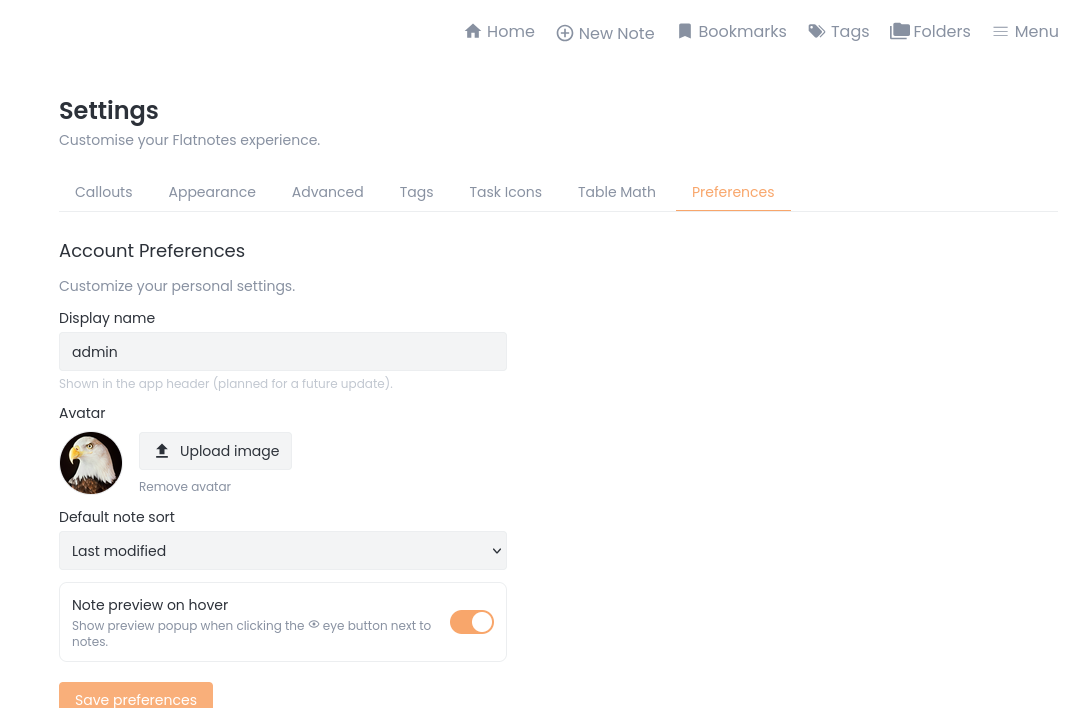
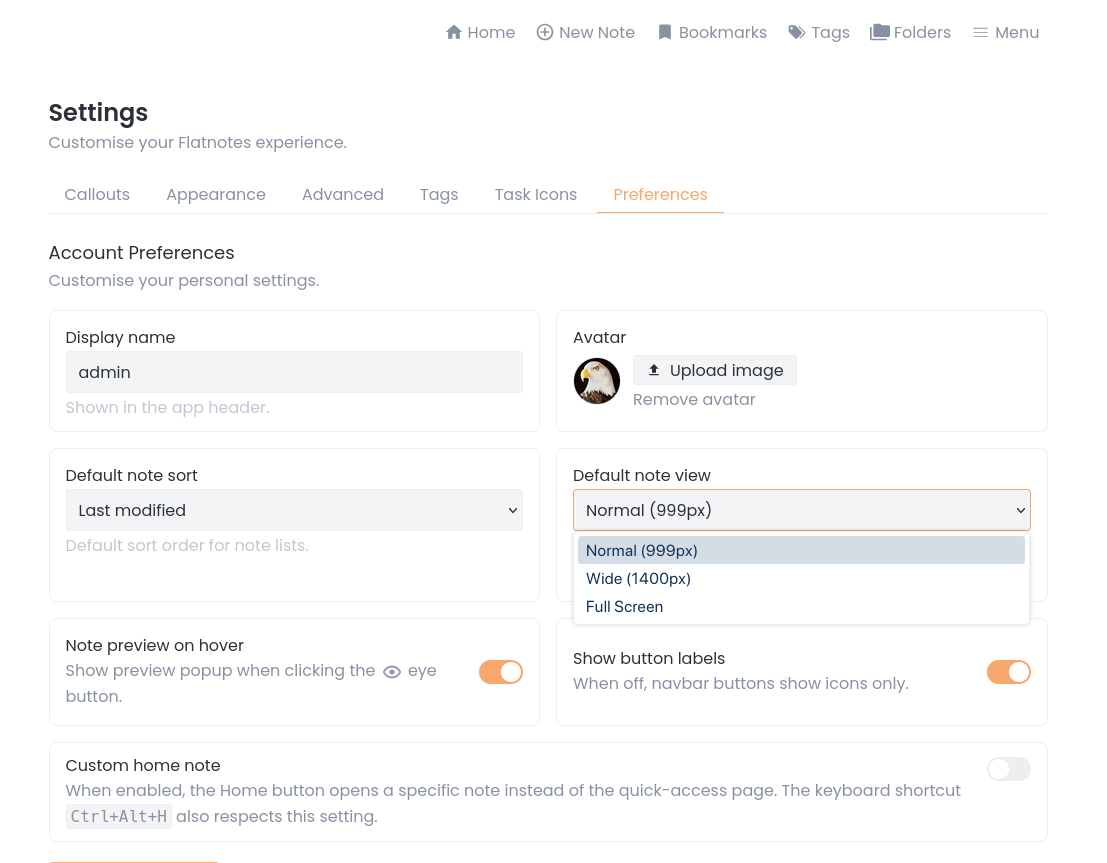
v1.6.0: Add Note Views: Normal (999px), Wide (1400px), Full Screen

diff --git a/client/views/Settings.vue b/client/views/Settings.vue
@@ -650,7 +650,7 @@
                   }"
                   placeholder="parent"
                   title="Parent tag name"
-                  class="w-24 text-sm bg-theme-background-elevated border border-theme-border
+                  class="w-28 text-sm bg-theme-background-elevated border border-theme-border
                          rounded px-2 py-1 outline-none focus:border-theme-brand text-theme-text"
                 />
                 <span class="text-theme-text-very-muted shrink-0 select-none text-sm">/</span>
@@ -663,7 +663,7 @@
                   }"
                   placeholder="child"
                   title="Child tag name (optional — leave empty for top-level tag)"
-                  class="w-24 text-sm bg-theme-background-elevated border border-theme-border
+                  class="w-28 text-sm bg-theme-background-elevated border border-theme-border
                          rounded px-2 py-1 outline-none focus:border-theme-brand text-theme-text"
                 />
               </div>
@@ -676,7 +676,7 @@
               />
               <input
                 v-model="row.color"
-                class="w-20 text-xs font-mono bg-theme-background-elevated border border-theme-border
+                class="w-24 text-xs font-mono bg-theme-background-elevated border border-theme-border
                        rounded px-2 py-1 outline-none focus:border-theme-brand text-theme-text uppercase"
               />
 
@@ -817,7 +817,7 @@
                 />
                 <input
                   v-model="row.color"
-                  class="w-20 text-xs font-mono bg-theme-background-elevated border border-theme-border
+                  class="w-24 text-xs font-mono bg-theme-background-elevated border border-theme-border
                          rounded px-1.5 py-1 outline-none focus:border-theme-brand text-theme-text uppercase"
                   @input="row.color = normalizeHex($event.target.value)"
                 />
@@ -970,18 +970,20 @@
           <p class="text-xs text-theme-text-very-muted mt-1.5">Default sort order for note lists.</p>
         </div>
 
-        <!-- Default view placeholder — grid/list view not yet implemented in frontend -->
-        <div class="p-4 rounded-lg border border-theme-border bg-theme-background opacity-50">
+        <!-- Default view -->
+        <div class="p-4 rounded-lg border border-theme-border bg-theme-background">
           <label class="block text-sm font-medium text-theme-text mb-1">Default note view</label>
           <select
-            disabled
+            v-model="prefs.notesDefaultView"
             class="w-full text-sm bg-theme-background-elevated border border-theme-border rounded px-3 py-2
-                   outline-none text-theme-text cursor-not-allowed"
+                   outline-none focus:border-theme-brand text-theme-text"
           >
-            <option>App default</option>
+            <option value="normal">Normal (999px)</option>
+            <option value="wide">Wide (1400px)</option>
+            <option value="fullscreen">Full Screen</option>
           </select>
           <p class="text-xs text-theme-text-very-muted mt-1.5">
-            Grid / list view toggle coming in a future update.
+            Wide gives more room on large desktops without stretching to full screen. Full Screen uses all available width.
           </p>
         </div>
       </div>
@@ -1464,12 +1466,17 @@ async function saveQuoteStyle() {
 }
 
 // ── Preferences ───────────────────────────────────────────────────────────────
-const prefs = ref({ displayName: "", avatarFilename: null, notesDefaultSort: "", notesDefaultView: "", showButtonLabels: true, homeNoteEnabled: false, homeNote: "" });
+const prefs = ref({ displayName: "", avatarFilename: null, notesDefaultSort: "", notesDefaultView: "normal", showButtonLabels: true, homeNoteEnabled: false, homeNote: "" });
 const prefsSaving = ref(false);
 
 // Keep globalStore in sync so buttons react instantly (no save needed for live preview)
 watch(() => prefs.value.showButtonLabels, (val) => {
   globalStore.showButtonLabels = val;
+}, { immediate: true });
+
+// Sync note view mode to globalStore so layout updates live on change
+watch(() => prefs.value.notesDefaultView, (val) => {
+  globalStore.noteViewMode = (val === 'fullscreen' || val === 'wide') ? val : 'normal';
 }, { immediate: true });
 
 // Sync home note settings to globalStore so NavBar reacts without requiring save
@@ -1517,7 +1524,7 @@ async function savePrefs() {
       display_name:        toNull(p.displayName),
       avatar_filename:     toNull(p.avatarFilename),
       notes_default_sort:  toNull(p.notesDefaultSort),
-      notes_default_view:  toNull(p.notesDefaultView),
+      notes_default_view:  (p.notesDefaultView === 'fullscreen' || p.notesDefaultView === 'wide') ? p.notesDefaultView : 'normal',
       show_button_labels:  p.showButtonLabels,
       home_note_enabled:   p.homeNoteEnabled,
       home_note:           p.homeNote ? p.homeNote.trim() : null,
@@ -1803,7 +1810,7 @@ onMounted(async () => {
       displayName:       p.display_name ?? "",
       avatarFilename:    p.avatar_filename ?? null,
       notesDefaultSort:  p.notes_default_sort ?? "",
-      notesDefaultView:  p.notes_default_view ?? "",
+      notesDefaultView:  (p.notes_default_view === 'fullscreen' || p.notes_default_view === 'wide') ? p.notes_default_view : 'normal',
       showButtonLabels:  p.show_button_labels !== false,
       homeNoteEnabled:   p.home_note_enabled === true,
       homeNote:          p.home_note || "",

diff --git a/client/App.vue b/client/App.vue
@@ -1,49 +1,83 @@
 <template>
+  <!--
+    Outer shell is always full-width so the sidebar's fixed 288px offset
+    eats into the outer padding/margin space, NOT into the note content.
+    Inner centering is applied per-route via the contentClass computed.
+  -->
   <LoadingIndicator
     ref="loadingIndicator"
-    class="container mx-auto flex h-screen flex-col px-2 py-4 print:max-w-full"
+    class="flex h-screen flex-col py-4 print:max-w-full w-full px-2 md:px-4"
   >
     <PrimeToast />
     <SearchModal v-model="isSearchModalVisible" />
 
-    <!-- Tag Sidebar -->
+    <!-- Tag Sidebar (fixed-position, overlays content) -->
     <TagSidebar
       :isOpen="isSidebarOpen"
       @close="isSidebarOpen = false"
       @tagsChanged="handleTagsChanged"
     />
 
-    <!-- Folder Sidebar -->
+    <!-- Folder Sidebar (fixed-position, overlays content) -->
     <FolderSidebar
       :isOpen="isFolderSidebarOpen"
       @close="isFolderSidebarOpen = false"
     />
 
-    <!-- Main content area with fixed header and scrollable content -->
+    <!-- Main content area — shifts right when sidebar opens. The outer shell is
+         full-width so the 288px shift is absorbed by space outside the inner
+         centering wrapper rather than shrinking the note content. -->
     <div
       :class="[
         'flex flex-col flex-1 min-h-0 transition-all duration-300',
         (isSidebarOpen || isFolderSidebarOpen) ? 'md:ml-72' : 'md:ml-0',
       ]"
     >
-      <!-- Fixed NavBar - does not scroll -->
-      <div class="shrink-0">
-        <NavBar
-          v-if="showNavBar"
-          ref="navBar"
-          :class="{ 'print:hidden': route.name == 'note' }"
-          :hide-logo="true"
-          :isSidebarOpen="isSidebarOpen"
-          :isFolderSidebarOpen="isFolderSidebarOpen"
-          @toggleSearchModal="toggleSearchModal"
-          @toggleSidebar="openTagSidebar"
-          @toggleFolderSidebar="openFolderSidebar"
-        />
-      </div>
+      <!--
+        Inner centering wrapper — constrains both the NavBar and the page content
+        to the same max-width so they always stay aligned with each other.
 
-      <!-- Scrollable content area -->
-      <div class="flex-1 overflow-y-auto min-h-0">
-        <RouterView :activeTags="activeTags" />
+        Normal mode  : max-w-[999px] mx-auto  (centered column, same width as before)
+        Fullscreen on note routes: no max-w — full available width with outer padding
+        Non-note pages: always max-w-[999px] mx-auto regardless of view mode
+      -->
+      <div
+        :class="[
+          'flex flex-col flex-1 min-h-0',
+          contentWidthClass,
+        ]"
+      >
+        <!-- NavBar — always shrink-0, inherits the same width as content below -->
+        <div class="shrink-0">
+          <NavBar
+            v-if="showNavBar"
+            ref="navBar"
+            :class="{ 'print:hidden': route.name == 'note' }"
+            :hide-logo="true"
+            :isSidebarOpen="isSidebarOpen"
+            :isFolderSidebarOpen="isFolderSidebarOpen"
+            @toggleSearchModal="toggleSearchModal"
+            @toggleSidebar="openTagSidebar"
+            @toggleFolderSidebar="openFolderSidebar"
+          />
+        </div>
+
+        <!-- Note routes: flex column so Note.vue's h-full resolves correctly -->
+        <div
+          v-if="isNoteRoute"
+          class="flex-1 min-h-0 flex flex-col"
+        >
+          <RouterView :activeTags="activeTags" />
+        </div>
+
+        <!-- Non-note pages: scrollable, content has its own internal max-w -->
+        <div
+          v-else
+          class="flex-1 overflow-y-auto min-h-0"
+        >
+          <RouterView :activeTags="activeTags" />
+        </div>
+
       </div>
     </div>
   </LoadingIndicator>
@@ -136,7 +170,8 @@ getConfig()
       globalStore.showButtonLabels = prefs.show_button_labels !== false;
       globalStore.homeNoteEnabled  = prefs.home_note_enabled === true;
       globalStore.homeNote         = prefs.home_note || '';
-
+      const vm = prefs.notes_default_view;
+      globalStore.noteViewMode     = (vm === 'fullscreen' || vm === 'wide') ? vm : 'normal';
       // If a custom home note is configured and we're currently on the
       // default home route, navigate there immediately on startup.
       if (
@@ -158,6 +193,29 @@ getConfig()
 
 const showNavBar = computed(() => {
   return route.name !== "login";
+});
+
+// Note routes are the only ones that expand beyond normal width
+const isNoteRoute = computed(() => route.name === 'note' || route.name === 'new');
+
+// True when fullscreen mode is active AND we're on a note route
+const isFullscreenNoteRoute = computed(() =>
+  globalStore.noteViewMode === 'fullscreen' && isNoteRoute.value
+);
+
+// True when wide mode is active AND we're on a note route
+const isWideNoteRoute = computed(() =>
+  globalStore.noteViewMode === 'wide' && isNoteRoute.value
+);
+
+// The max-width class applied to the shared NavBar + content centering wrapper.
+// Normal : max-w-[999px]  — original behaviour, unchanged
+// Wide   : max-w-[1400px] — comfortable reading width on large desktops
+// Full   : w-full         — uses full available width (outer padding provides breathing room)
+const contentWidthClass = computed(() => {
+  if (isFullscreenNoteRoute.value) return 'w-full';
+  if (isWideNoteRoute.value)       return 'max-w-[1400px] w-full mx-auto';
+  return 'max-w-[999px] w-full mx-auto';
 });
 
 function toggleSearchModal() {

diff --git a/client/globalStore.js b/client/globalStore.js
@@ -11,10 +11,12 @@ export const useGlobalStore = defineStore("global", () => {
   // instead of the default quick-access home page.
   const homeNoteEnabled = ref(false);
   const homeNote = ref('');
+  // Note view mode: 'normal' = centered container (default), 'fullscreen' = expanded width
+  const noteViewMode = ref('normal');
 
   function bumpPinned() {
     pinnedVersion.value++;
   }
 
-  return { config, pinnedVersion, bumpPinned, showButtonLabels, homeNoteEnabled, homeNote };
+  return { config, pinnedVersion, bumpPinned, showButtonLabels, homeNoteEnabled, homeNote, noteViewMode };
 });

diff --git a/client/views/Attachments.vue b/client/views/Attachments.vue
@@ -9,7 +9,7 @@
     @confirm="confirmDelete"
   />
 
-  <LoadingIndicator ref="loadingIndicator" class="flex h-full max-w-[999px] flex-col">
+  <LoadingIndicator ref="loadingIndicator" class="mx-auto flex h-full max-w-[999px] flex-col">
 
     <!-- Header row -->
     <div class="flex items-center justify-between mb-4 gap-3 flex-wrap">

diff --git a/client/views/SearchResults.vue b/client/views/SearchResults.vue
@@ -1,5 +1,5 @@
 <template>
-  <div class="flex h-full max-w-[999px] flex-col">
+  <div class="mx-auto flex h-full max-w-[999px] flex-col">
     <!-- Search Input -->
     <SearchInput :initialSearchTerm="props.searchTerm" class="mb-2" />
 

diff --git a/client/views/Archive.vue b/client/views/Archive.vue
@@ -1,5 +1,5 @@
 <template>
-  <div class="flex h-full max-w-[999px] flex-col">
+  <div class="mx-auto flex h-full max-w-[999px] flex-col">
     <!-- Header -->
     <div class="flex items-center justify-between mb-4">
       <div>

diff --git a/client/views/Bookmarks.vue b/client/views/Bookmarks.vue
@@ -1,5 +1,5 @@
 <template>
-  <div class="flex h-full max-w-[999px] flex-col">
+  <div class="mx-auto flex h-full max-w-[999px] flex-col">
     <!-- Header -->
     <div class="flex items-center justify-between mb-4">
       <div>

diff --git a/client/views/Templates.vue b/client/views/Templates.vue
@@ -1,5 +1,5 @@
 <template>
-  <div class="flex h-full max-w-[999px] flex-col">
+  <div class="mx-auto flex h-full max-w-[999px] flex-col">
     <!-- Header -->
     <div class="flex items-center justify-between mb-4">
       <div>

diff --git a/client/views/Trash.vue b/client/views/Trash.vue
@@ -1,5 +1,5 @@
 <template>
-  <div class="flex h-full max-w-[999px] flex-col">
+  <div class="mx-auto flex h-full max-w-[999px] flex-col">
     <!-- Header -->
     <div class="flex items-center justify-between mb-4">
       <div>

diff --git a/server/user_settings.py b/server/user_settings.py
@@ -382,8 +382,12 @@ def save_prefs(prefs: UserPrefsUpdate) -> None:
                 settings.avatar_filename = prefs.avatar_filename
             if prefs.notes_default_sort is not None:
                 settings.notes_default_sort = prefs.notes_default_sort
+            # Always save notes_default_view — it's an explicit choice ('normal' or 'fullscreen'),
+            # never omitted, so the None guard would incorrectly skip clearing it.
             if prefs.notes_default_view is not None:
                 settings.notes_default_view = prefs.notes_default_view
+            else:
+                settings.notes_default_view = 'normal'
 
             if prefs.header_colors is not None:
                 settings.header_colors = [c.dict() for c in prefs.header_colors]
@@ -421,7 +425,7 @@ def save_prefs(prefs: UserPrefsUpdate) -> None:
         display_name=prefs.display_name if prefs.display_name is not None else existing.display_name,
         avatar_filename=prefs.avatar_filename if prefs.avatar_filename is not None else existing.avatar_filename,
         notes_default_sort=prefs.notes_default_sort if prefs.notes_default_sort is not None else existing.notes_default_sort,
-        notes_default_view=prefs.notes_default_view if prefs.notes_default_view is not None else existing.notes_default_view,
+        notes_default_view=prefs.notes_default_view if prefs.notes_default_view is not None else 'normal',
         header_colors=prefs.header_colors if prefs.header_colors is not None else existing.header_colors,
         highlight_colors=prefs.highlight_colors if prefs.highlight_colors is not None else existing.highlight_colors,
         default_highlight=prefs.default_highlight if prefs.default_highlight is not None else existing.default_highlight,

diff --git a/README.md b/README.md
@@ -2,7 +2,7 @@
 
 [![License](https://img.shields.io/github/license/BobWs/flatnotes-enhanced)](LICENSE)
 [![GitHub release](https://img.shields.io/github/v/release/BobWs/flatnotes-enhanced)](https://github.com/BobWs/flatnotes-enhanced/releases)
-[![Docker Pulls](https://img.shields.io/docker/pulls/dockerbobw/flatnotes-enhanced)](https://img.shields.io/docker/pulls/dockerbobw/flatnotes-enhanced)
+[![Docker Pulls](https://img.shields.io/docker/pulls/dockerbobw/flatnotes-enhanced)](https://hub.docker.com/r/dockerbobw/flatnotes-enhanced)
 
 
 **A professional-grade, feature-rich fork of [Flatnotes](https://github.com/Dullage/flatnotes).**
@@ -29,10 +29,9 @@ Flatnotes-Enhanced elevates the original Flatnotes into a powerful, customizable
 
 ---
 
-## 🆕 What's New in v1.5.1
+## 🆕 What's New in v1.6.0
 
-- **Case-insensitive attachments** – `![image](attachments/Photo.png)` now works even if the file is named `photo.png`
-- **Archive folder scanning** – Attachments in archived notes are now correctly marked as "in use"
+- **Note Views** – Choose your preferred reading width: Normal (999px), Wide (1400px), or Full Screen
 
 [View full changelog](https://github.com/BobWs/flatnotes-enhanced/releases)
 
@@ -160,7 +159,7 @@ Flatnotes-Enhanced elevates the original Flatnotes into a powerful, customizable
 | Advanced | Table styling, quote styling. |
 | Tags | Global tag colors + per-tag overrides. |
 | Task Icons | Custom colors for task markers. |
-| Preferences | Display name, avatar, default sort, note preview toggle, button label toggle, custom home note. |
+| Preferences | Display name, avatar, default sort, note view (Normal/Wide/Full Screen), note preview toggle, button label toggle, custom home note. |
 
 ---
 
@@ -303,6 +302,7 @@ Open your browser and navigate to `http://localhost:8080`
 ## Tags
 
 - `latest` – newest version (multi-arch: `linux/amd64` + `linux/arm64`)
+- `v1.6.0` – Note Views: Normal (999px), Wide (1400px), Full Screen
 - `v1.5.1` – Bug fixes: case-insensitive attachments + archive folder scanning
 - `v1.5.0` – New: Wikilink Popup Modal – Link notes without typing
 - `v1.4.2` – Bug fix: note switching while editing (clean editor close)
